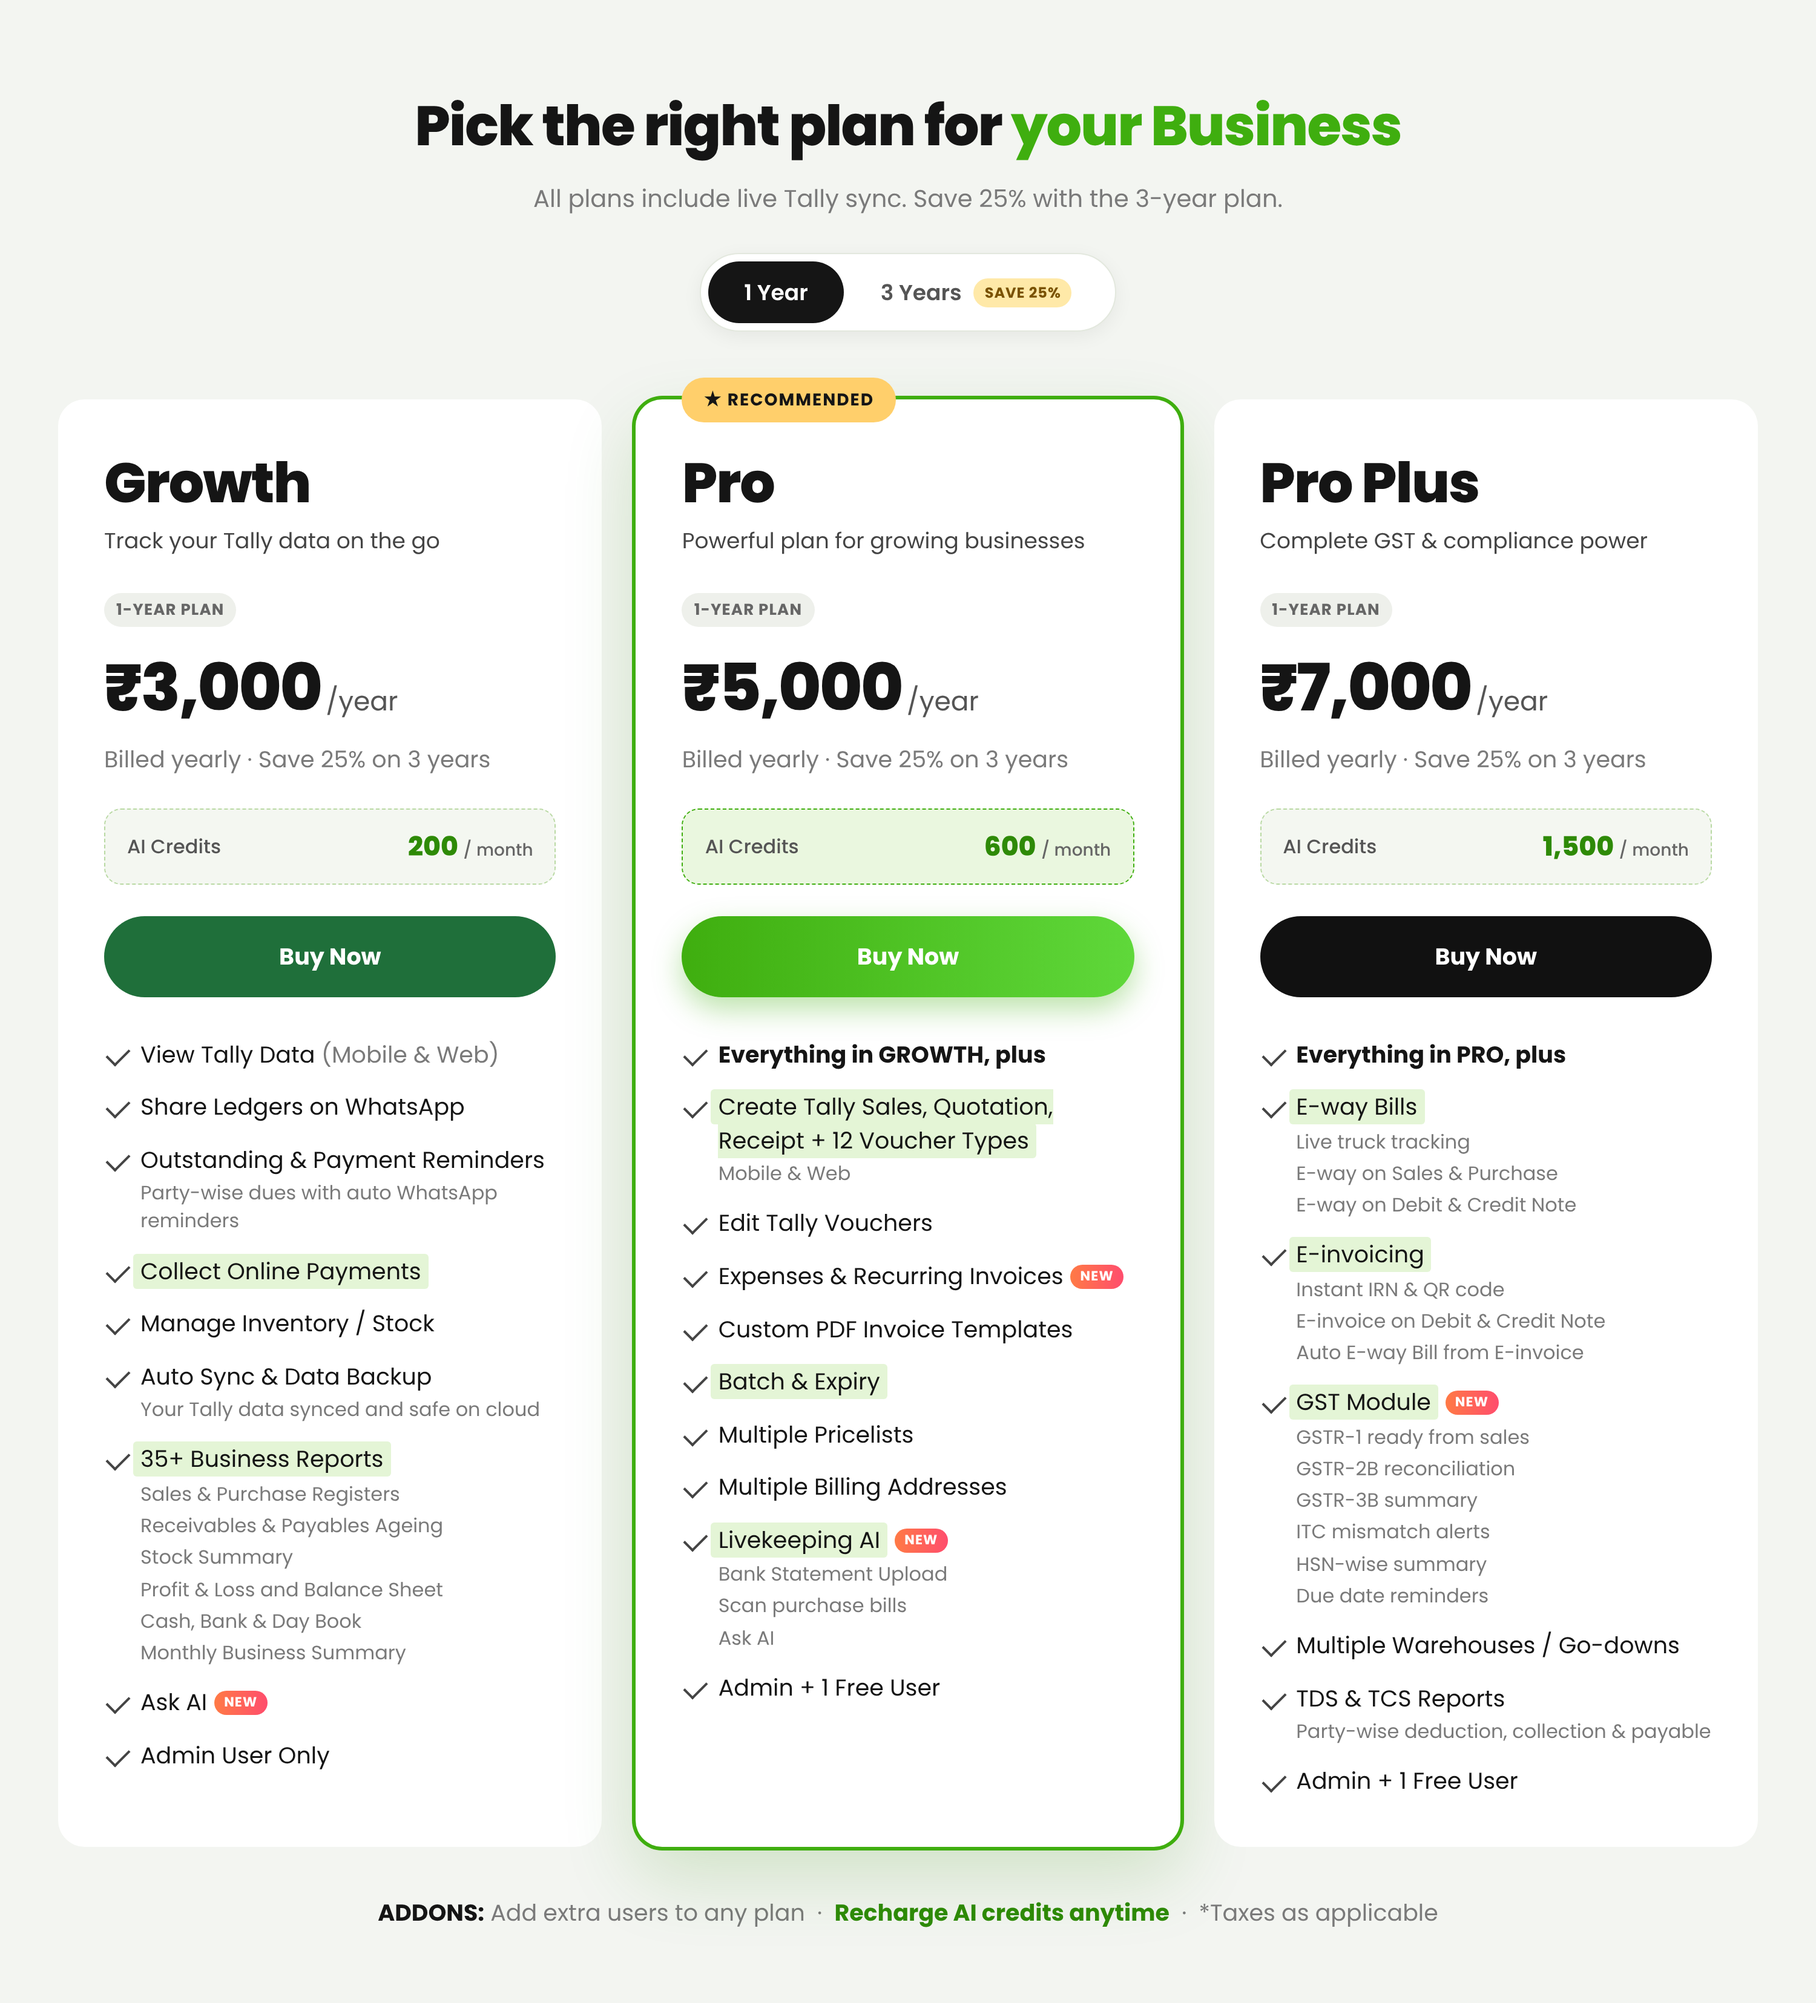
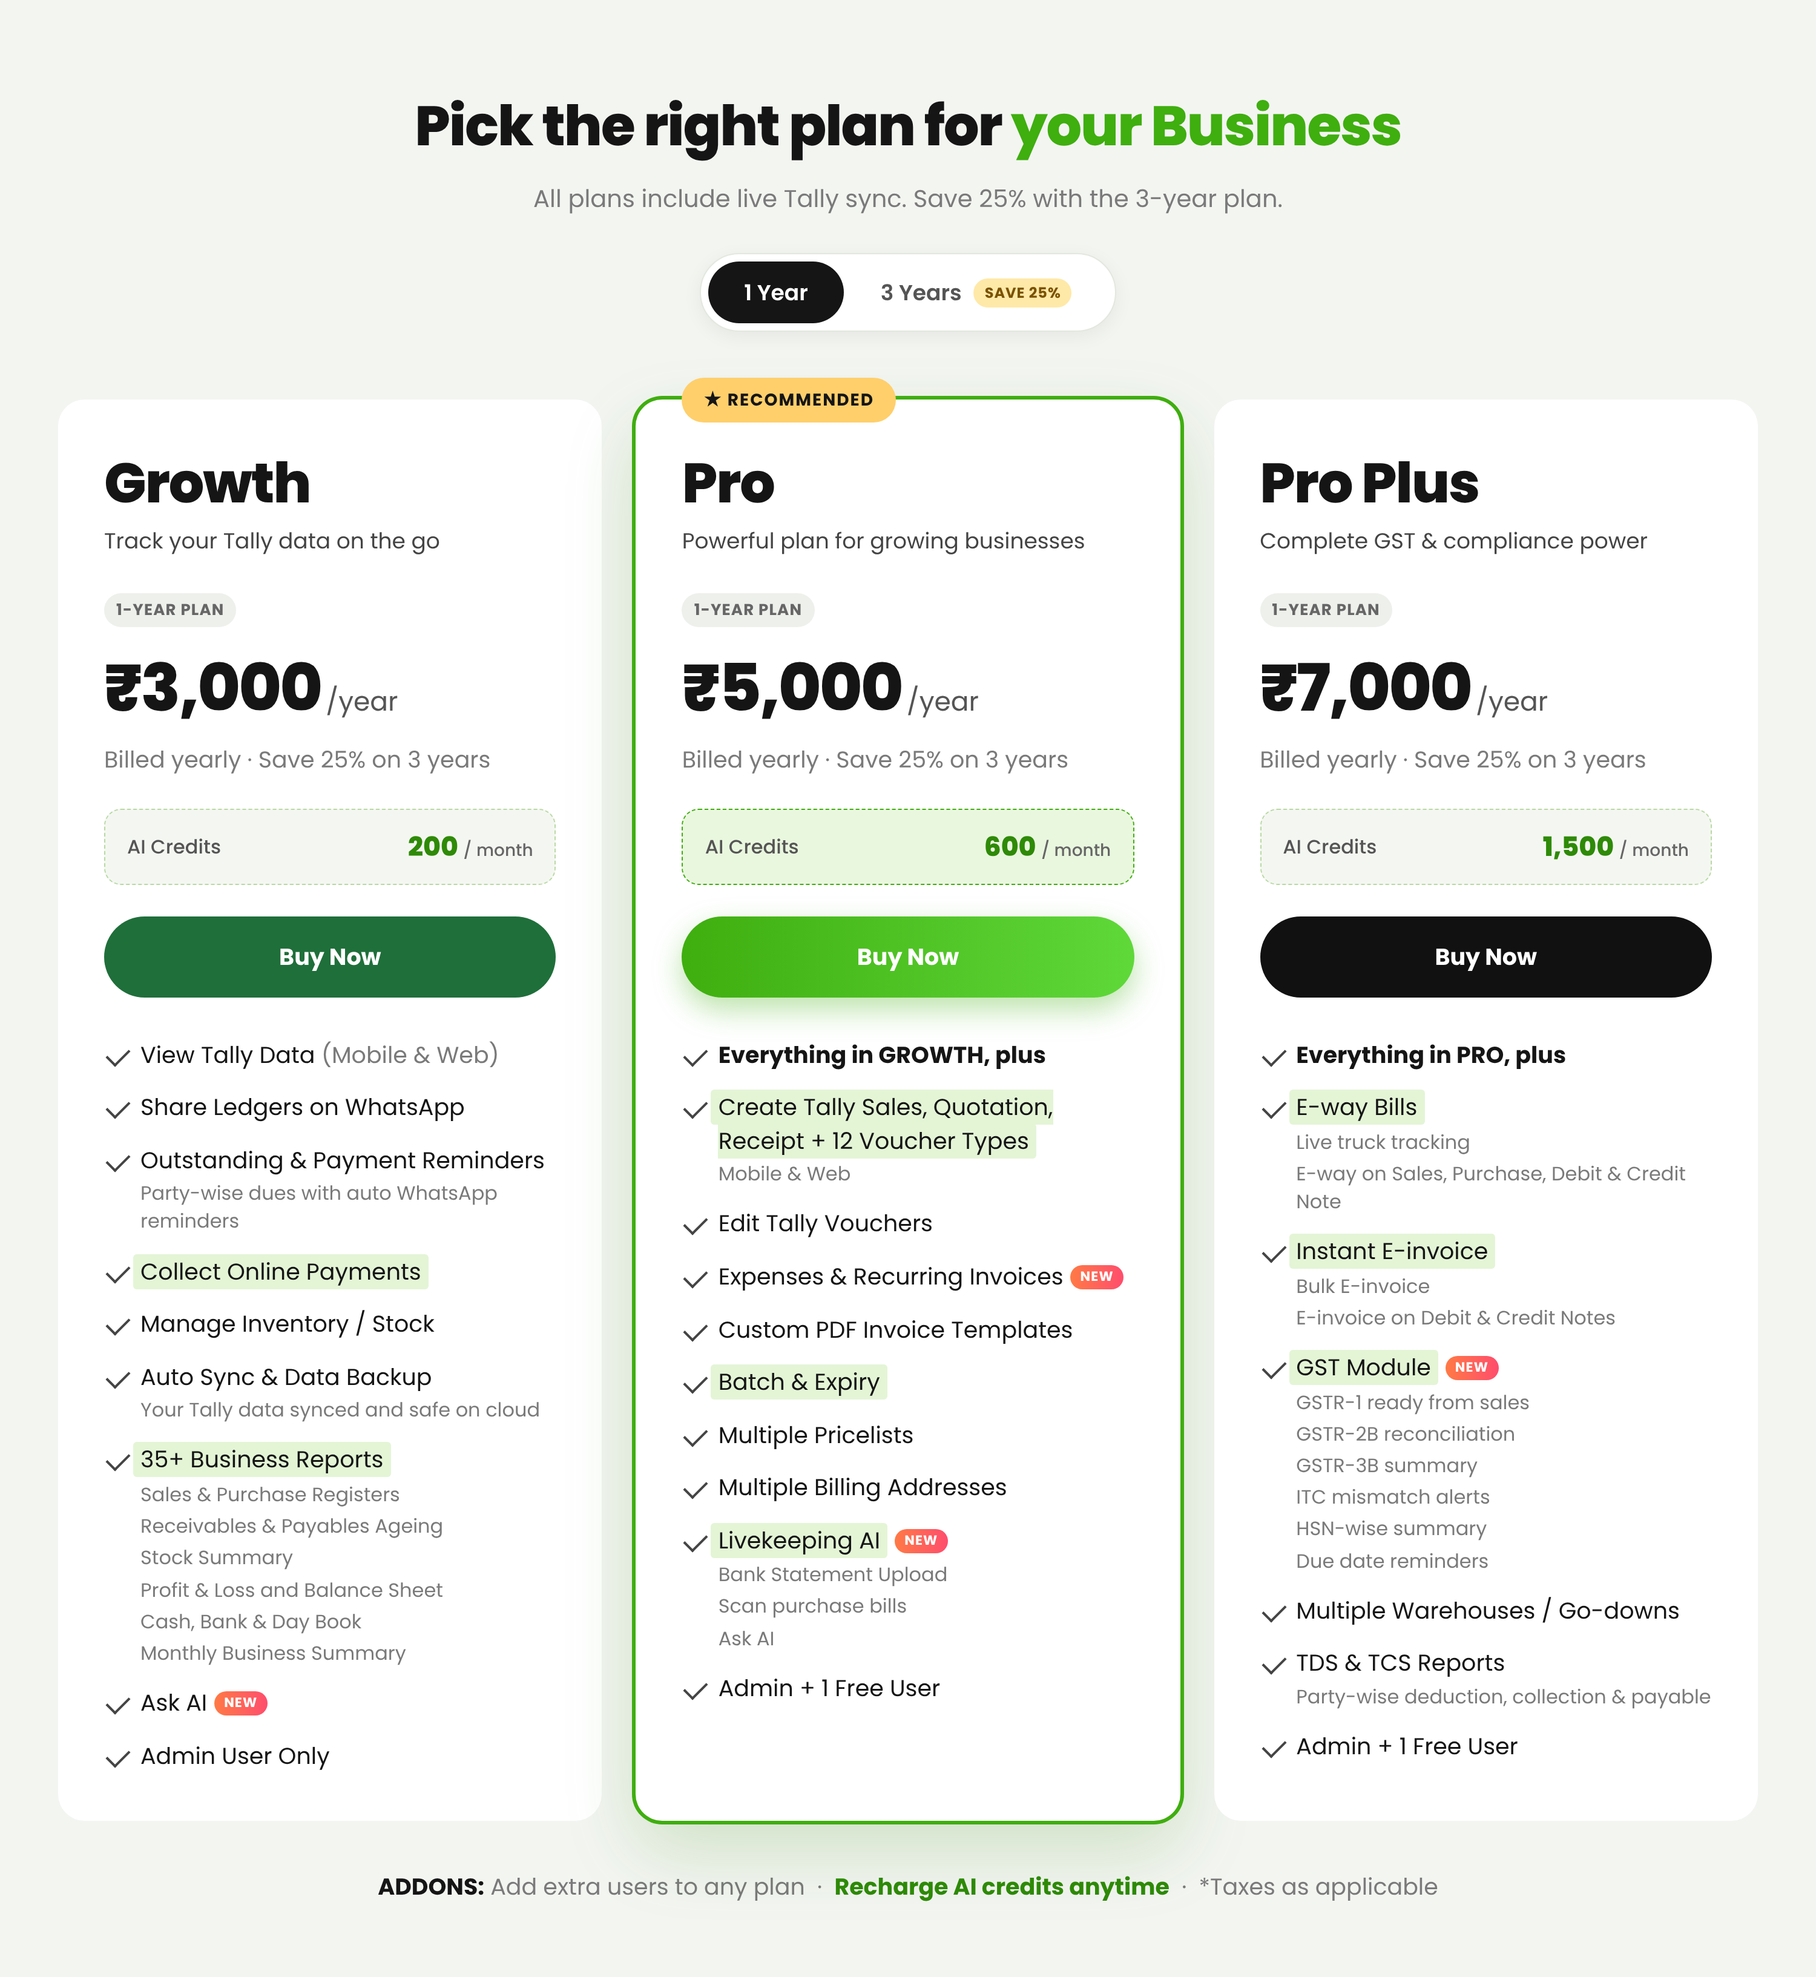
Pricing cards: combine e-way points, Instant E-invoice with bulk and notes
Claude-Session: https://claude.ai/code/session_01TUFe6273V25gsCzznixesV

diff --git a/livekeeping-pricing/cards.html b/livekeeping-pricing/cards.html
@@ -207,8 +207,8 @@
       <div class="btn">Buy Now</div>
       <ul>
         <li><div><b>Everything in PRO, plus</b></div></li>
-        <li><div><span class="hl">E-way Bills</span><span class="note ln">Live truck tracking</span><span class="note ln">E-way on Sales &amp; Purchase</span><span class="note ln">E-way on Debit &amp; Credit Note</span></div></li>
-        <li><div><span class="hl">E-invoicing</span><span class="note ln">Instant IRN &amp; QR code</span><span class="note ln">E-invoice on Debit &amp; Credit Note</span><span class="note ln">Auto E-way Bill from E-invoice</span></div></li>
+        <li><div><span class="hl">E-way Bills</span><span class="note ln">Live truck tracking</span><span class="note ln">E-way on Sales, Purchase, Debit &amp; Credit Note</span></div></li>
+        <li><div><span class="hl">Instant E-invoice</span><span class="note ln">Bulk E-invoice</span><span class="note ln">E-invoice on Debit &amp; Credit Notes</span></div></li>
         <li><div><span class="hl">GST Module</span><span class="new">NEW</span><span class="note ln">GSTR-1 ready from sales</span><span class="note ln">GSTR-2B reconciliation</span><span class="note ln">GSTR-3B summary</span><span class="note ln">ITC mismatch alerts</span><span class="note ln">HSN-wise summary</span><span class="note ln">Due date reminders</span></div></li>
         <li><div>Multiple Warehouses / Go-downs</div></li>
         <li><div>TDS &amp; TCS Reports<span class="note">Party-wise deduction, collection &amp; payable</span></div></li>
